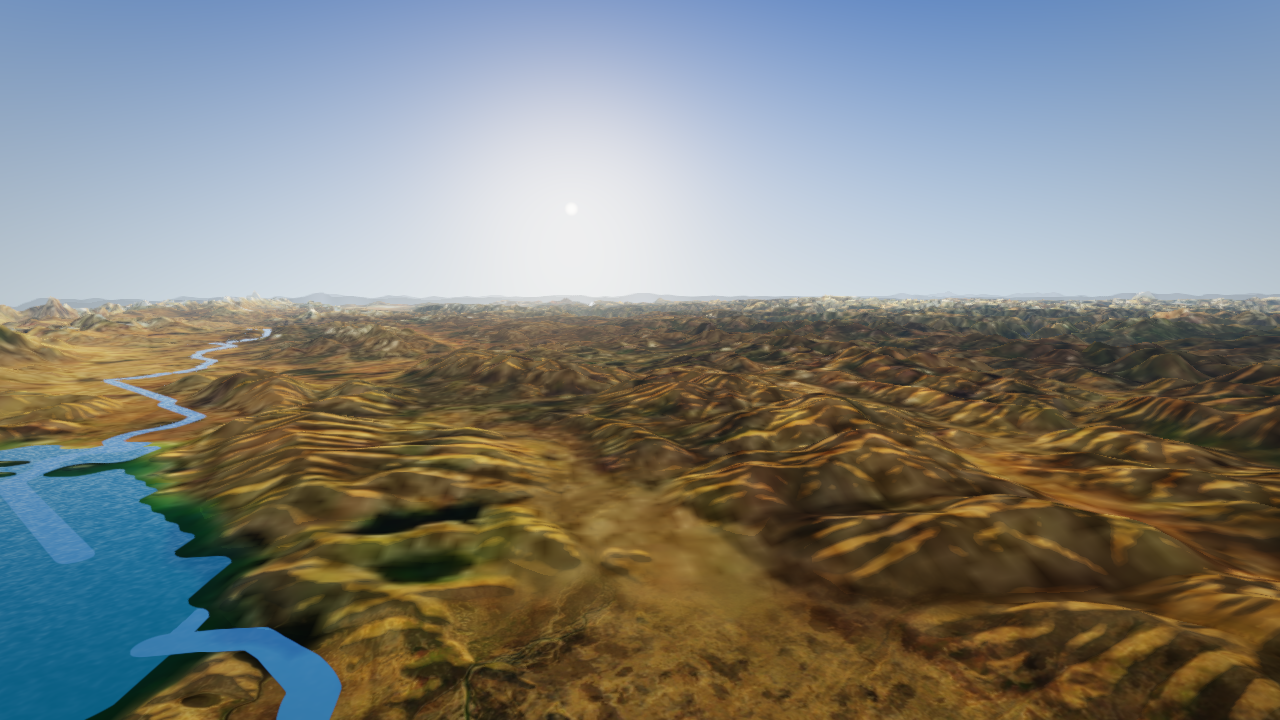
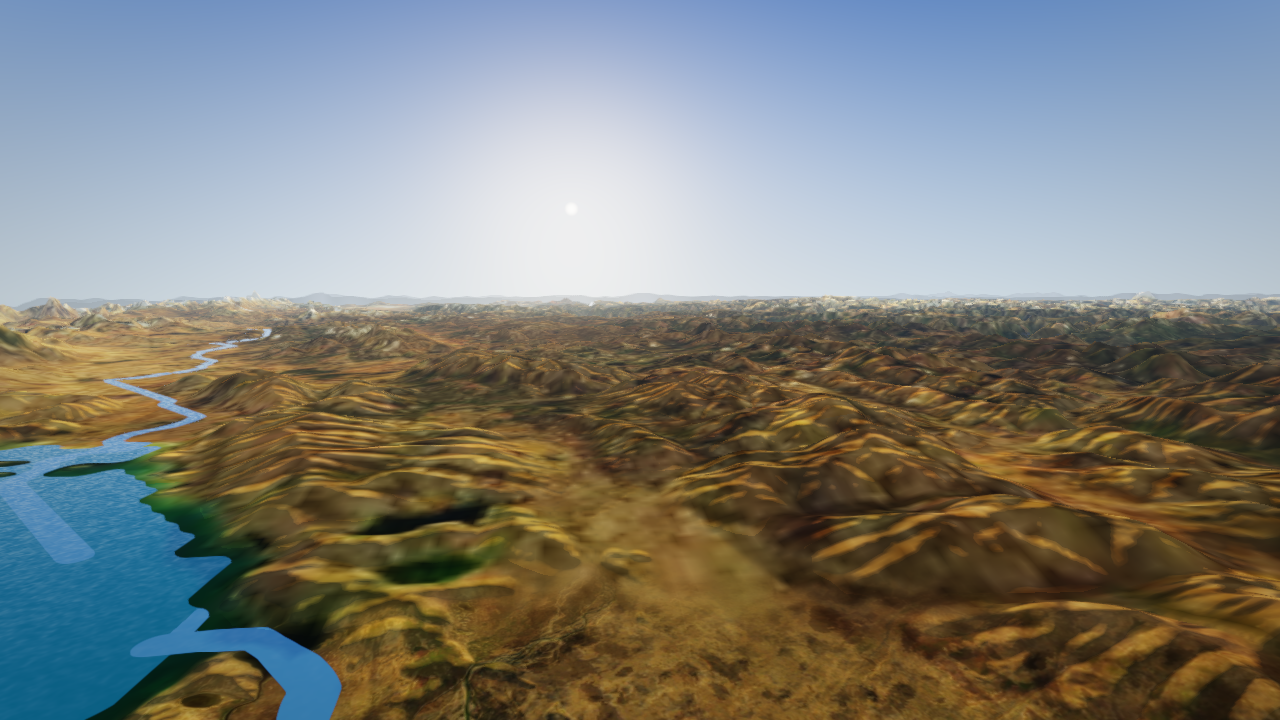
F96: the country's colour where the ground is, and what the southern frame costs
EOX's zoom-10 tiles, which every country tile was cut from, sit up to
120 m off the ground in places, and zoom 11 too; their content is not the
finer zooms averaged. Zooms 12 to 14 agree with each other and with
GLO-30's hillshade where they lie, at thirteen sites along the northern
rails, with the same tone. The country is now cut from zoom 12 (148,312
tiles, 2.4 GB): 1,700 country tiles changed, the hero areas and the
southern packs did not, and the 10 m sub-tiles along the rails now fade
into a country tile that lies where their detail does. Three tiles of
open sea off Vladivostok lose a sliver of coast and fly in the palette.

`?without=fine,near,rock,relief` loads the film without those layers, to
time each by its absence. At the southern stations the walls' rock costs
0.6 to 1.2 ms, the hero fine colour about 1.3 at Karst, the relief nothing
measurable; the terrain without all three is still 4.3 to 5.6 ms.

The Roof and Below the Sea re-taken (13.9, 2.2 % changed). The film is
1,061.8 MB of 2 GB.

diff --git a/app/src/main.ts b/app/src/main.ts
@@ -19,7 +19,7 @@ import { DEFAULT_HAZE_DENSITY_PER_M, HAZE_SCALE_HEIGHT_M } from "../../engine/sr
 import { LookRig } from "../../engine/src/look/look.js";
 import { SyntheticTileSource, loadWorld, type LoadedWorld } from "../../engine/src/terrain/tileSource.js";
 import { StreamingTileSource } from "../../engine/src/terrain/tileStream.js";
-import { ColourSource, loadColourIndex } from "../../engine/src/terrain/colour.js";
+import { ColourSource, loadColourIndex, withoutFine } from "../../engine/src/terrain/colour.js";
 import { RockFaces, loadRockIndex } from "../../engine/src/terrain/rock.js";
 import { ReliefSource, loadReliefIndex } from "../../engine/src/terrain/relief.js";
 import { loadHeroCovers, type HeroCover } from "../../engine/src/terrain/heroSource.js";
@@ -128,17 +128,23 @@ if (world) {
     console.error("hero cover failed to load; flying the country grid alone", error);
   }
 }
+// `?without=fine,near,rock,relief` flies without those layers, the shader's
+// code for them and all, so what each costs a frame can be measured by its
+// absence (F96): the hero tiles' 10 m colour (F91), the country's along the
+// rails (F95), the walls' rock (F92), the relief (F93, F94).
+const without = new Set((query.get("without") ?? "").split(",").filter(Boolean));
 // The ground's colour (F87): the satellite mosaic cut onto every tile the
 // film can see. Its files come with the scene packs; without packs, one at a time.
-const colourIndex = world ? await loadColourIndex(`/world/${worldName}/colour/index.json`) : null;
+const loadedColour = world ? await loadColourIndex(`/world/${worldName}/colour/index.json`) : null;
+const colourIndex = loadedColour && withoutFine(loadedColour, without);
 const colour = colourIndex
   ? new ColourSource(colourIndex, `/world/${worldName}/colour/files`, packs?.fetchTile)
   : null;
 // The walls' rock (F92): photographed faces, one loaded for each scene's palette.
-const rockIndex = world ? await loadRockIndex(`/world/${worldName}/rock/index.json`) : null;
+const rockIndex = world && !without.has("rock") ? await loadRockIndex(`/world/${worldName}/rock/index.json`) : null;
 const rock = rockIndex ? new RockFaces(rockIndex, `/world/${worldName}/rock`) : null;
 // The ground's relief below its grid (F93), from the source's 30 m, lighting the tiles nearest the camera.
-const reliefIndex = world ? await loadReliefIndex(`/world/${worldName}/relief/index.json`) : null;
+const reliefIndex = world && !without.has("relief") ? await loadReliefIndex(`/world/${worldName}/relief/index.json`) : null;
 const relief = reliefIndex ? new ReliefSource(reliefIndex, `/world/${worldName}/relief/files`, packs?.fetchTile) : null;
 if (!world && film)
   notice(

diff --git a/test/terrain/fineColour.test.ts b/test/terrain/fineColour.test.ts
@@ -13,6 +13,7 @@ import {
   ColourSource,
   NO_COLOUR,
   colourProblem,
+  withoutFine,
   type ColourAnswer,
   type ColourImage,
   type ColourIndex,
@@ -469,6 +470,18 @@ describe("the country's near colour (F95)", () => {
     expect(country.material.vertexShader).toContain("iNearColour");
     terrain.setScale({ ...DEFAULT_SCALE, horizontalCompression: 4 });
     expect(u.uColourNearFade!.value.x).toBeCloseTo(FINE_REACH.near!.fullM / 4);
+  });
+
+  it("can be left out, and the hero tiles' fine colour apart from it, to measure what each costs", () => {
+    const both = { ...withNear, fine: { ...withNear.fine, hero: { cells: 1152, samples: FINE } } };
+    expect(withoutFine(both, new Set())).toEqual(both);
+    const noNear = withoutFine(both, new Set(["near"]));
+    expect(noNear.near).toBeUndefined();
+    expect(Object.keys(noNear.fine!)).toEqual(["hero"]);
+    const noFine = withoutFine(both, new Set(["fine"]));
+    expect(Object.keys(noFine.fine!)).toEqual(["near"]);
+    expect(noFine.near).toEqual(withNear.near);
+    expect(withoutFine(both, new Set(["fine", "near"])).fine).toBeUndefined();
   });
 
   it("is not compiled in where the index has none", () => {

diff --git a/engine/src/terrain/colour.ts b/engine/src/terrain/colour.ts
@@ -129,6 +129,21 @@ export async function decodeColourImage(bytes: Uint8Array): Promise<ColourImage>
   return { width: bitmap.width, height: bitmap.height, source: bitmap, close: () => bitmap.close() };
 }
 
+/**
+ * The index less the finer layers named: `fine`, the hero tiles' 10 m (F91);
+ * `near`, the country's along the rails (F95). What a frame costs without
+ * them is measured by flying so (`?without=`, F96).
+ */
+export function withoutFine(index: ColourIndex, without: ReadonlySet<string>): ColourIndex {
+  const { fine, near, ...rest } = index;
+  const kept = Object.entries(fine ?? {}).filter(([lattice]) => !without.has(lattice === "near" ? "near" : "fine"));
+  return {
+    ...rest,
+    ...(kept.length > 0 && { fine: Object.fromEntries(kept) }),
+    ...(near && !without.has("near") && { near }),
+  };
+}
+
 export async function loadColourIndex(url: string, fetch: FetchBytes = fetchBytes): Promise<ColourIndex | null> {
   try {
     const index = JSON.parse(new TextDecoder().decode(await fetch(url))) as ColourIndex;

diff --git a/pipeline/nineskies/imagery.py b/pipeline/nineskies/imagery.py
@@ -98,10 +98,17 @@ EARTH_RADIUS_M = 6378137.0
 HALF_WORLD_M = math.pi * EARTH_RADIUS_M
 SOURCE_TILE_PX = 256
 
-#: The mosaic's zoom for each lattice: its pixel a little finer than half a
-#: colour sample at China's latitudes, so the reprojection averages rather
-#: than invents. Zoom 10 is 132 m at 30 N; 13 is 16.5 m; 14 is 8.3 m.
-ZOOM_FOR_TILE_M = {64_000: 10, 11_520: 13, 3_840: 14}
+#: The mosaic's zoom for each lattice: its pixel finer than half a colour
+#: sample at China's latitudes, so the reprojection averages rather than
+#: invents. Zoom 12 is 33 m at 30 N; 13 is 16.5 m; 14 is 8.3 m.
+#:
+#: The country's was zoom 10 (132 m) until F96. EOX's zooms 10 and 11 are
+#: not where its 12 to 14 are, nor where the ground is: up to 120 m off,
+#: by different amounts from place to place, and their content is not
+#: zoom 14's averaged. Zooms 12 to 14 agree with each other to half a level
+#: and with GLO-30's hillshade where they lie, so zoom 12 is the coarsest
+#: the ground can be cut from.
+ZOOM_FOR_TILE_M = {64_000: 12, 11_520: 13, 3_840: 14}
 
 #: A hero tile's finest colour, cells a side (F91): 10 m, Sentinel-2's own,
 #: drawn over the tiles nearest the camera. Its broad tone is the colour

diff --git a/pipeline/tests/test_imagery.py b/pipeline/tests/test_imagery.py
@@ -133,8 +133,11 @@ class TestTheSource(unittest.TestCase):
         self.assertLessEqual(y0 * 256, py.min())
         self.assertGreaterEqual(x1 * 256, px.max())
         self.assertGreaterEqual(y1 * 256, py.max())
-        # A 64 km tile at zoom 10 is a few mosaic tiles a side, not dozens.
-        self.assertLessEqual((x1 - x0) * (y1 - y0), 25)
+        # A 64 km tile at zoom 12 is about nine mosaic tiles a side, not dozens.
+        self.assertLessEqual((x1 - x0) * (y1 - y0), 100)
+        # And not below zoom 12, where EOX's tiles are not where the ground is (F96).
+        self.assertEqual(area.zoom, 12)
+        self.assertTrue(all(z >= 12 for z in imagery.ZOOM_FOR_TILE_M.values()))
 
     def test_a_tile_encodes_and_decodes(self):
         from rasterio.io import MemoryFile

diff --git a/docs/findings.md b/docs/findings.md
@@ -1655,6 +1655,109 @@ detail further out. The southern stations' terrain, at 5.7 to 6.3 ms,
 wants its share found among F91's fine colour, F92's walls and F93's
 relief.
 
+## F96 — The country's colour where the ground is, and what the southern frame costs, 25 September 2026
+
+**Why.** F95 found EOX's zoom-10 tiles, which every country tile was cut
+from, sitting up to 120 m off the ground in places. So the country's colour
+was half a 250 m sample away from its own relief and from the 10 m colour
+along the rails. And F95 left the southern stations' terrain at 6 ms of
+the 8 it has, up 2 to 2.7 ms on F87, without knowing which layers cost it.
+
+**Which zoom is where the ground is.** Thirteen sub-tiles along the
+northern rails (the Loess, Heaven Lake, Below the Sea, the Roof, the Wall),
+each read at zooms 10 to 14. Each was correlated against a hillshade of
+GLO-30 on the same ground, and compared with zoom 14 averaged to 250 m, at
+shifts of up to 240 m.
+- *Zooms 12, 13 and 14* agree with each other to 0.3 to 0.6 of a level at
+  no shift, at all thirteen. Where the ground has relief enough to tell,
+  all three match the hillshade best where they lie.
+- *Zooms 10 and 11* do not. Against zoom 14 they are 1 to 10 levels off,
+  worst on the Roof. At several sites they fit best 40 to 120 m away, and
+  are still 1 to 5 levels off there, so their content differs as well as
+  their place. EOX's coarse zooms are evidently not its fine ones averaged.
+- *The tone is the same.* Zoom 12 is 0.45 of a level darker than zoom 10,
+  alike everywhere, so F87's grade stands.
+
+So the country is cut from zoom 12 (33 m at 30° N, eight pixels to a
+sample), the coarsest zoom that lies where the ground is. The hero areas
+were already at 13 and 14. That is 148,312 tiles, 2.4 GB, fetched once at
+the service's six a second: seven hours.
+
+**What changed.** The whole colour was cut again, in 25 minutes:
+- *Country tiles.* 1,700 of the 2,178 changed, 416 of them the archive's
+  (F90, F98) in the mosaic their edges fall back on. Where the archive
+  sees a tile whole, the mosaic never shows, so the four southern packs
+  came out byte for byte the same.
+- *Hero areas.* Unchanged, Everest's new composite (F98) included.
+- *Sub-tiles along the rails.* 170 of the 1,056 changed. Their detail was
+  always zoom 14's, and a sub-tile takes from its country tile only what
+  that tile did to its source, which differs only where cloud was filled.
+  What changed is what they fade into: the country tile now lies where
+  their detail does, so the fade 10 to 16 km out no longer moves anything
+  (F95).
+- *Three tiles of open sea* off Vladivostok, at the edge of Heaven Lake's
+  view, have no colour now. Zoom 10 had a sliver of coast in each (1 to
+  10 %), filled across the tile; zoom 12 has nothing there. They fly in the
+  palette, as the 18 of open sea round them always have.
+
+**What the southern frame costs.** The layers since F87 that draw on
+hero ground were timed by their absence. `?without=fine,near,rock,relief`
+loads the film without the named layers, and the shader is compiled
+without them. Each configuration was captured five or six times,
+interleaved, at 1920 × 1080. The captures came from a separate checkout at
+30d68c2, so another session's work in progress (F97) was not in them.
+Medians of terrain ms, and what removing each layer saves:
+
+| | Three Gorges | Karst | First Bend |
+| --- | ---: | ---: | ---: |
+| Everything | 6.21 | 6.39 | 6.00 |
+| without F92's rock | 5.02 (1.2) | 5.72 (0.7) | 5.42 (0.6) |
+| without F91's fine colour | 5.78 (0.4) | 5.14 (1.3) | 6.36 (−0.4) |
+| without F93's relief | 6.49 (−0.3) | 6.73 (−0.3) | 7.20 (−1.2) |
+| without all three | 4.30 (1.9) | 5.56 (0.8) | 4.51 (1.5) |
+
+- *The walls' rock* is the one layer that costs everywhere: 0.6 to 1.2 ms.
+  A wall's fragment reads its face some ten times.
+- *The fine colour* costs most at Karst, where Guilin's 30 m pool holds 40
+  layers. Elsewhere it is within the noise.
+- *The relief* costs nothing these captures can see.
+- *Together* the three are 0.8 to 1.9 ms. Without them the terrain is
+  still 4.3 to 5.6 ms, 0.7 to 1 ms above F87. That is older than these
+  layers, or the instrument's drift from day to day: the Loess read 2.2 ms
+  one night and 2.8 the next morning.
+
+*The instrument is the limit.* The `clear` pass, the same work at every
+station, resolved to 0.1 to 0.3 ms with 80 samples. The terrain moved 1 to
+2 ms between rounds with nothing changed: Karst with everything on read
+7.71, 6.59 and 5.59. The M3's GPU sets its own clock, so single
+differences under a millisecond are not measurements, and the table's are
+medians. Huangshan was left out: its captures are never whole, and its
+`clear` reads 2 to 8 ms.
+
+The capture was refused, at 13 to 19 Hz, whenever anything else drew.
+That included this session's own window redrawing between captures, and
+the display after 90 idle minutes. The table's captures were taken with
+the display held awake and nothing else drawing.
+
+**The stills.** Two changed. Share of each still changed by more than 8
+levels:
+
+| Still | Changed | What changed |
+| --- | ---: | --- |
+| The Roof | 13.9 % | The middle distance's pale and dark patches move onto the hills they belong to. |
+| Below the Sea | 2.2 % | The far plain's colour, a little. |
+
+The other seven changed by 0.4 % at most and stand. Frame cost was not
+timed again: the layers and their sizes are as they were.
+
+**The film is 1,061.8 MB**, up 1.7 MB: the five northern packs each about
+0.4 MB. The southern four are unchanged.
+
+**Next.** The walls' rock is the southern frame's largest optional cost.
+It could read its face fewer times a fragment, or only near the camera.
+The base terrain's 4.3 to 5.6 ms is the rest of the budget, and F97's 500 m
+level adds 0.7 to 0.9 ms to it at Karst and the Three Gorges.
+
 ## F97 — The Wall as mountains: the country finer than its samples, the curtain lit, and a drama of three, 25 September 2026
 
 **Why.** Three things were wrong with the Wall, found making the cover:

diff --git a/Nine Skies — Build Plan.md b/Nine Skies — Build Plan.md
@@ -16,7 +16,7 @@ inherits; their numbering continues here rather than starting again.
 | 4 — Delivery | **Done.** Nine packs, 16.4 MB with what is read before them (55.8 MB since the colour, F87); no tile fetched outside them; the build ships them. First frame on a phone over 4G is arithmetic, not measured. | F84 |
 | 5 — Text, sound, credits | **Text and credits done**, every figure in metric and imperial. **No sound**: a stand-in and a synthesised wind were both rejected, and all of it is to be found on the web (D85). | — |
 | 6 — Launch | Not started. | |
-| 7 — Detail | **Started.** The terrain lit smooth (D86); the ground coloured from the 2016 Sentinel-2 mosaic, and the four southern scenes, hero areas and country, from a median of the Sentinel-2 archive, 2018-2025; the hero tiles nearest the camera at 10 m, and the country's ground along each rail at 10 m too; the walls laid with photographed rock (Poly Haven's scans, CC0) over the photograph's own tone; the ground near the camera lit by its relief below the grid, from GLO-30 (125 m on the country, 30 m on the 90 m hero areas), and the country's ground along each rail at the source's own 31 m; the country within 40 km of the camera drawn at 500 m on a spline through its 1 km samples, the curtain along a hero rim lit as its ground, and the Wall at an exaggeration of three (D90), its ground from the archive's high suns rather than the mosaic's winter (F98). 1,060.1 MB of the 2 GB D89 allows; the terrain 2.0-2.3 ms at the northern stations and 5.7-6.3 at the southern (F95), and the 500 m level 0.3 to 0.9 ms more (F97). Next: the country's 250 m colour registered to the ground; the mosaic's winter shadows wherever else north faces show them; the southern stations' cost found among F91-F93; the changed stills signed off (six from F92, seven from F93, three again from F94 and again from F95, six from F97, the Wall and the Roof from F98). | F86, F87, F89, F90, F91, F92, F93, F94, F95, F97, F98 |
+| 7 — Detail | **Started.** The terrain lit smooth (D86); the ground coloured from the 2016 Sentinel-2 mosaic, and the four southern scenes, hero areas and country, from a median of the Sentinel-2 archive, 2018-2025; the hero tiles nearest the camera at 10 m, and the country's ground along each rail at 10 m too; the walls laid with photographed rock (Poly Haven's scans, CC0) over the photograph's own tone; the ground near the camera lit by its relief below the grid, from GLO-30 (125 m on the country, 30 m on the 90 m hero areas), and the country's ground along each rail at the source's own 31 m; the country within 40 km of the camera drawn at 500 m on a spline through its 1 km samples, the curtain along a hero rim lit as its ground, and the Wall at an exaggeration of three (D90), its ground from the archive's high suns rather than the mosaic's winter (F98); the country's 250 m colour from the mosaic's zoom 12, which lies where the ground is (F96). 1,061.8 MB of the 2 GB D89 allows; the terrain 2.0-2.3 ms at the northern stations and 5.7-6.3 at the southern (F95), and the 500 m level 0.3 to 0.9 ms more (F97); of the southern terrain, the walls' rock 0.6 to 1.2 ms and the relief nothing measurable (F96). Next: the walls' rock read fewer times a fragment; the mosaic's winter shadows wherever else north faces show them; the changed stills signed off (six from F92, seven from F93, three again from F94 and again from F95, six from F97, the Wall and the Roof from F98, the Roof and Below the Sea from F96). | F86, F87, F89, F90, F91, F92, F93, F94, F95, F96, F97, F98 |
 
 Stages 0 to 4 and most of 3 and 5 took one day against five and a half
 weeks planned.

diff --git a/README.md b/README.md
@@ -45,7 +45,7 @@ CORRIDOR=china` runs them (about six minutes once the source is fetched).
 Then:
 
 ```bash
-make colour    # the ground's colour: the 2016 Sentinel-2 mosaic, the archive's median in the south, and 10 m along the rails (fetches ~52 GB once, after `make scenes`)
+make colour    # the ground's colour: the 2016 Sentinel-2 mosaic, the archive's median in the south, and 10 m along the rails (fetches ~80 GB once, after `make scenes`)
 make rock      # the walls' rock: four scanned cliff faces from Poly Haven, CC0 (fetches ~28 MB once)
 make relief    # the ground's relief below its grid, and at 31 m along the rails, from the GLO-30 already on disk (after `make scenes`)
 make scenes    # a pack per scene into dist-film/, 1,030.3 MB
@@ -64,7 +64,9 @@ postcards in `docs/cover-postcards.png`. Seven cards are the stills; Huangshan
 and the Wall, whose stills do not hold up that small, are the cover's own
 frames in `docs/cover/`, taken again with `npm run cover -- frames` while the
 dev server runs.
-`?frametime` shows the frame time by wall clock, for a phone.
+`?frametime` shows the frame time by wall clock, for a phone, and
+`?without=fine,near,rock,relief` flies without those layers, to measure
+what each costs.
 
 ## What the repository holds
 
